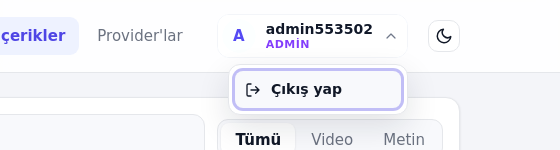
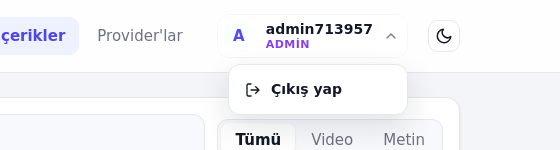
fix(dashboard): keep focus on the account button when its menu opens
Opening the menu no longer moves focus to "Çıkış yap", so it is not shown focused.
Retake the account menu screenshot.

Changed region(s): [[0.425, 0.4533, 0.7286, 0.7467], [0.5464, 0.16, 0.6679, 0.24], [0.3946, 0.48, 0.425, 0.72]]

diff --git a/sse-gateway/internal/web/static/app.js b/sse-gateway/internal/web/static/app.js
@@ -313,11 +313,7 @@
     $("user-menu").hidden = !open;
     $("user-menu-btn").setAttribute("aria-expanded", String(open));
   }
-  $("user-menu-btn").addEventListener("click", () => {
-    const open = $("user-menu").hidden;
-    setUserMenu(open);
-    if (open) $("logout-btn").focus();
-  });
+  $("user-menu-btn").addEventListener("click", () => setUserMenu($("user-menu").hidden));
   document.addEventListener("click", (e) => {
     if (!$("user-box").contains(e.target)) setUserMenu(false);
   });
